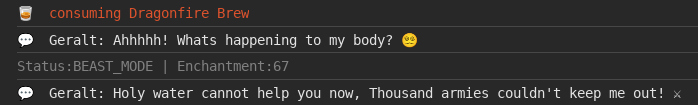
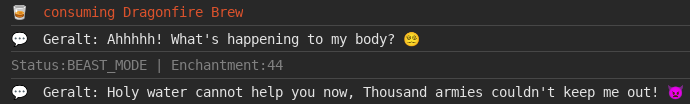
updated README: fixed typo

diff --git a/2-js-class.js b/2-js-class.js
@@ -13,7 +13,7 @@ class WitcherMachine {
         consume: this.consume.bind(this),
       },
       BEAST_MODE: {
-        speak: this.speak.bind(this, "Holy water cannot help you now, Thousand armies couldn't keep me out! ⚔"),
+        speak: this.speak.bind(this, "Holy water cannot help you now, Thousand armies couldn't keep me out! 👿"),
         consume: this.consume.bind(this),
         throwup: this.throwup.bind(this),
         passout: this.passout.bind(this),
@@ -63,7 +63,7 @@ class WitcherMachine {
           return;
         }
       } else if (this.state === "POWERFUL") {
-        this.logQuote("Ahhhhh! Whats happening to my body? 😵💫");
+        this.logQuote("Ahhhhh! What's happening to my body? 😵💫");
         this.setState("BEAST_MODE");
         return;
       } else {

diff --git a/1-js-object.js b/1-js-object.js
@@ -32,7 +32,7 @@ const machine = {
         this.logConsumption(potion)
         if (potion.type == "magical") {
           this.enchantmentLevel += Math.floor(Math.random() * 21) + 10; //20 - 60
-          this.logQuote(person, "Ahhhhh! Whats happening to my body?");
+          this.logQuote(person, "Ahhhhh! What's happening to my body?");
           this.setState("BEAST_MODE");
         } else {
           this.enchantmentLevel -= Math.floor(this.enchantmentLevel * 0.5);
